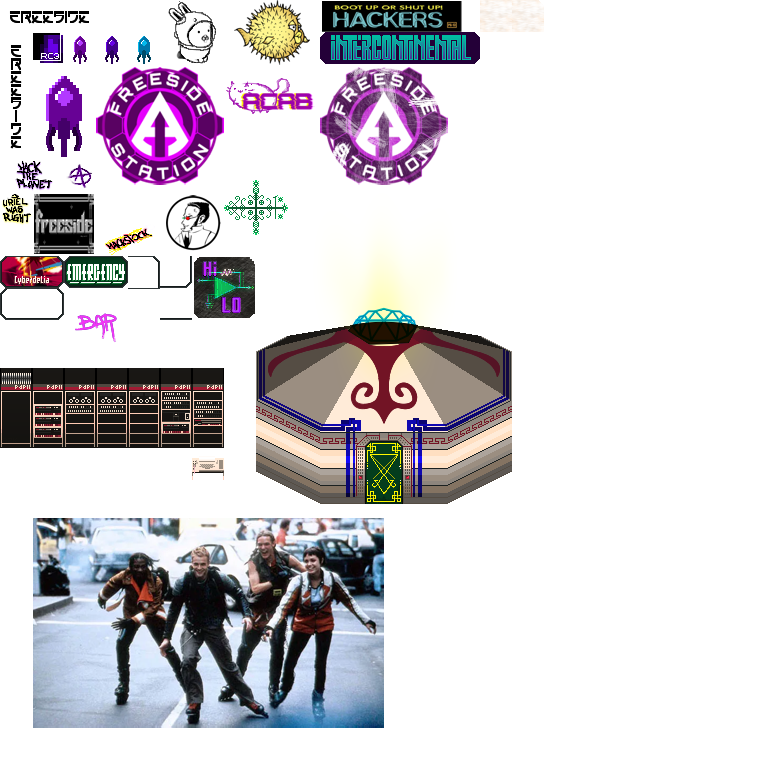
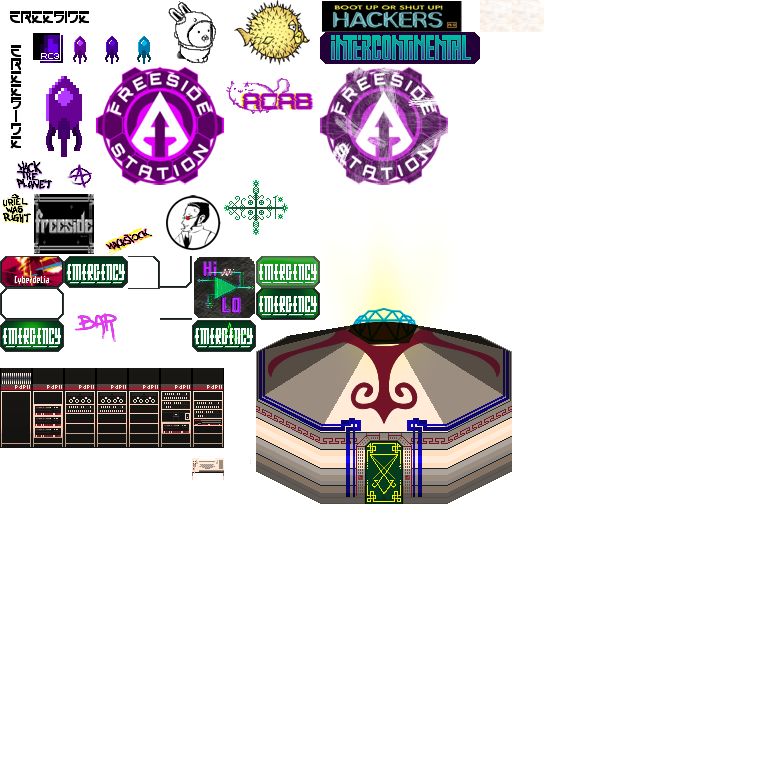
add emergency bar animation

Changed region(s): [[0.0312, 0.6562, 0.5, 0.9688], [0.25, 0.3125, 0.4375, 0.4688], [0.0, 0.4062, 0.0938, 0.4688]]

diff --git a/tilesets/rc3-freeside-sign.tsx b/tilesets/rc3-freeside-sign.tsx
@@ -1,4 +1,26 @@
 <?xml version="1.0" encoding="UTF-8"?>
-<tileset version="1.4" tiledversion="1.4.2" name="rc3-freeside-sign" tilewidth="32" tileheight="32" tilecount="256" columns="16">
- <image source="../oc-tiles/rc3-freeside-sign.png" width="512" height="512"/>
+<tileset version="1.4" tiledversion="1.4.3" name="rc3-freeside-sign" tilewidth="32" tileheight="32" tilecount="576" columns="24">
+ <image source="../oc-tiles/rc3-freeside-sign.png" width="768" height="768"/>
+ <tile id="194">
+  <animation>
+   <frame tileid="194" duration="100"/>
+   <frame tileid="240" duration="100"/>
+   <frame tileid="200" duration="100"/>
+   <frame tileid="224" duration="100"/>
+   <frame tileid="194" duration="100"/>
+   <frame tileid="246" duration="100"/>
+   <frame tileid="194" duration="100"/>
+  </animation>
+ </tile>
+ <tile id="195">
+  <animation>
+   <frame tileid="195" duration="100"/>
+   <frame tileid="241" duration="100"/>
+   <frame tileid="201" duration="100"/>
+   <frame tileid="225" duration="100"/>
+   <frame tileid="195" duration="100"/>
+   <frame tileid="247" duration="100"/>
+   <frame tileid="195" duration="100"/>
+  </animation>
+ </tile>
 </tileset>
